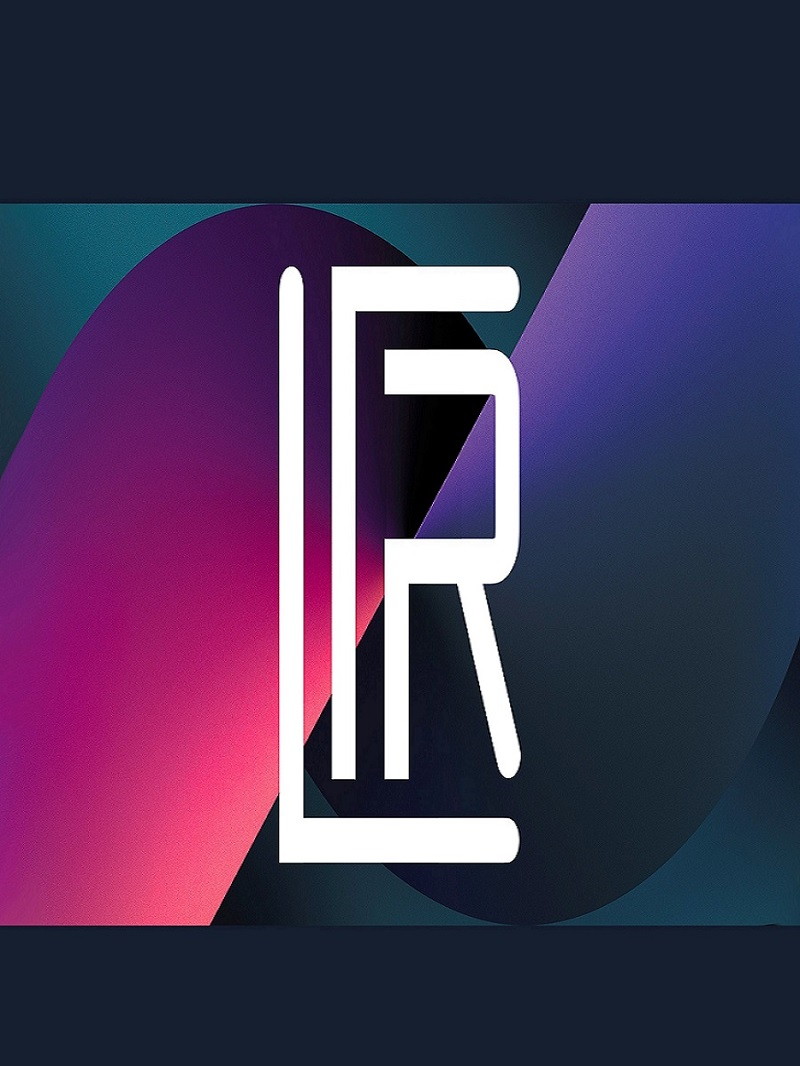
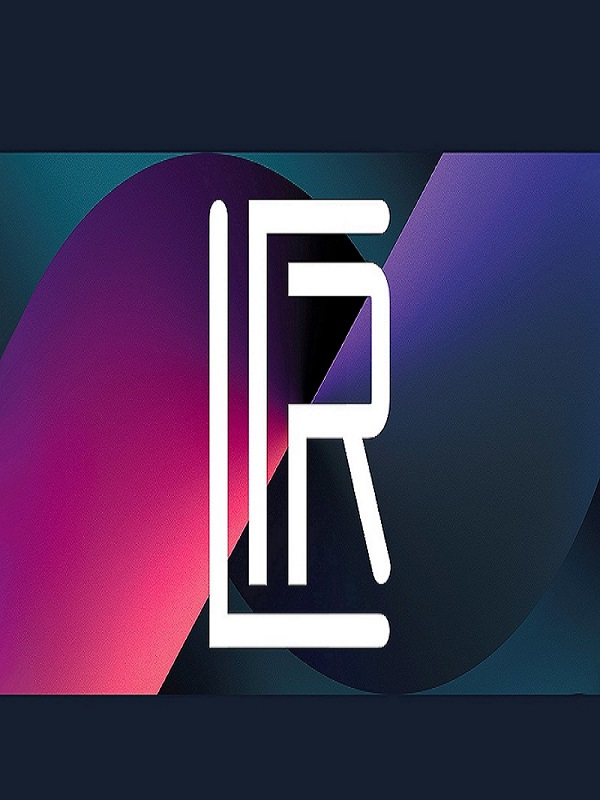
changed image resolution to 600 x 800

diff --git a/public/css/styles.css b/public/css/styles.css
@@ -357,8 +357,9 @@ nav {
 @media screen and (max-width: 1024px){
     body {
         overflow-x: hidden;
-        background-image: url("/images/favicon.ico");
+        background-image: url("/images/phone-background.jpg");
         background-attachment: fixed;
+        background-
     }
     
     .logo {
@@ -370,7 +371,7 @@ nav {
         position: absolute;
         right: 0px;
         height: 95vh;
-        top: 5vh;
+        top: 6.5vh;
         background-image: linear-gradient(0deg, rgb(0, 0, 49), rgb(44, 0, 44), rgb(0, 51, 51));
         display: flex;
         flex-direction: column;
